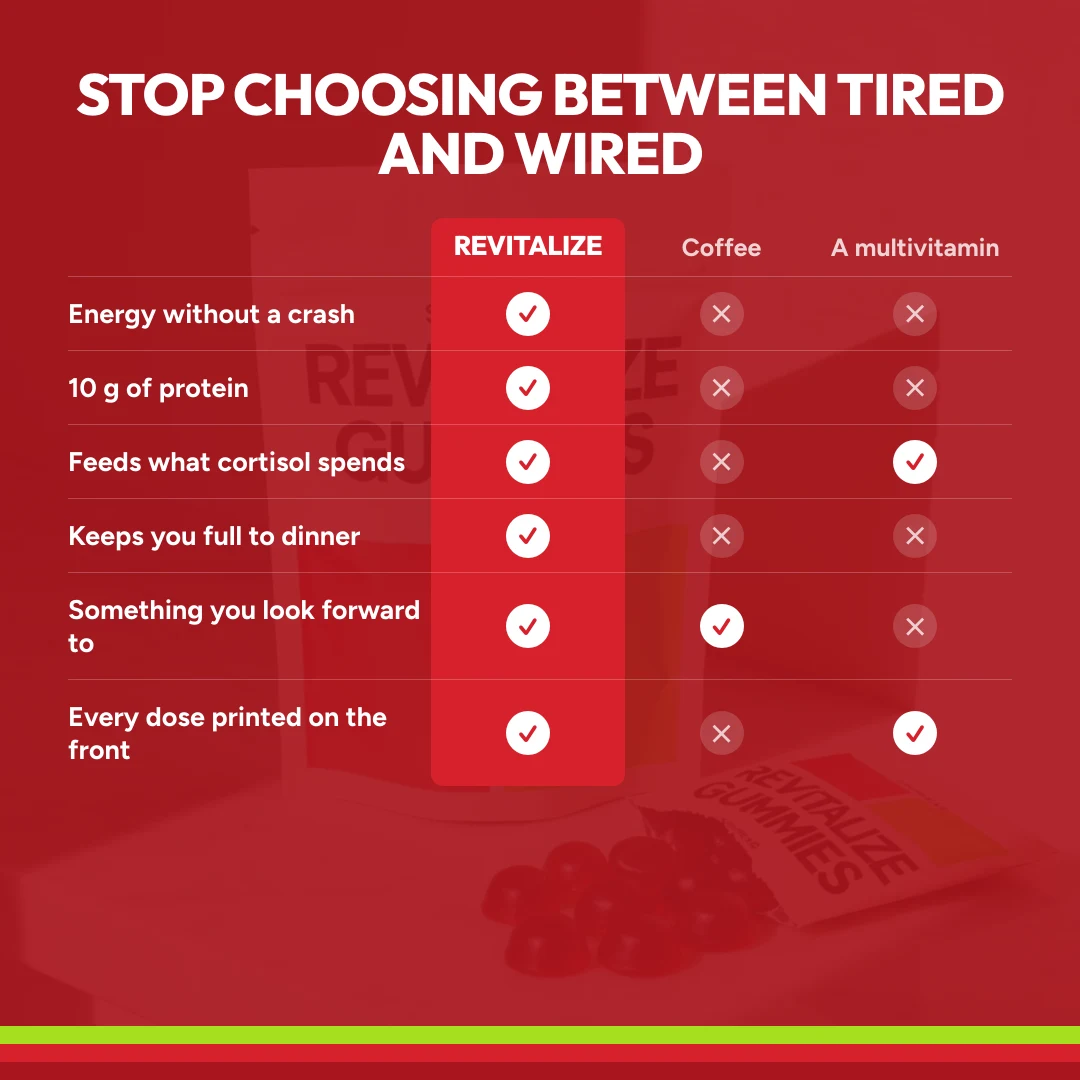
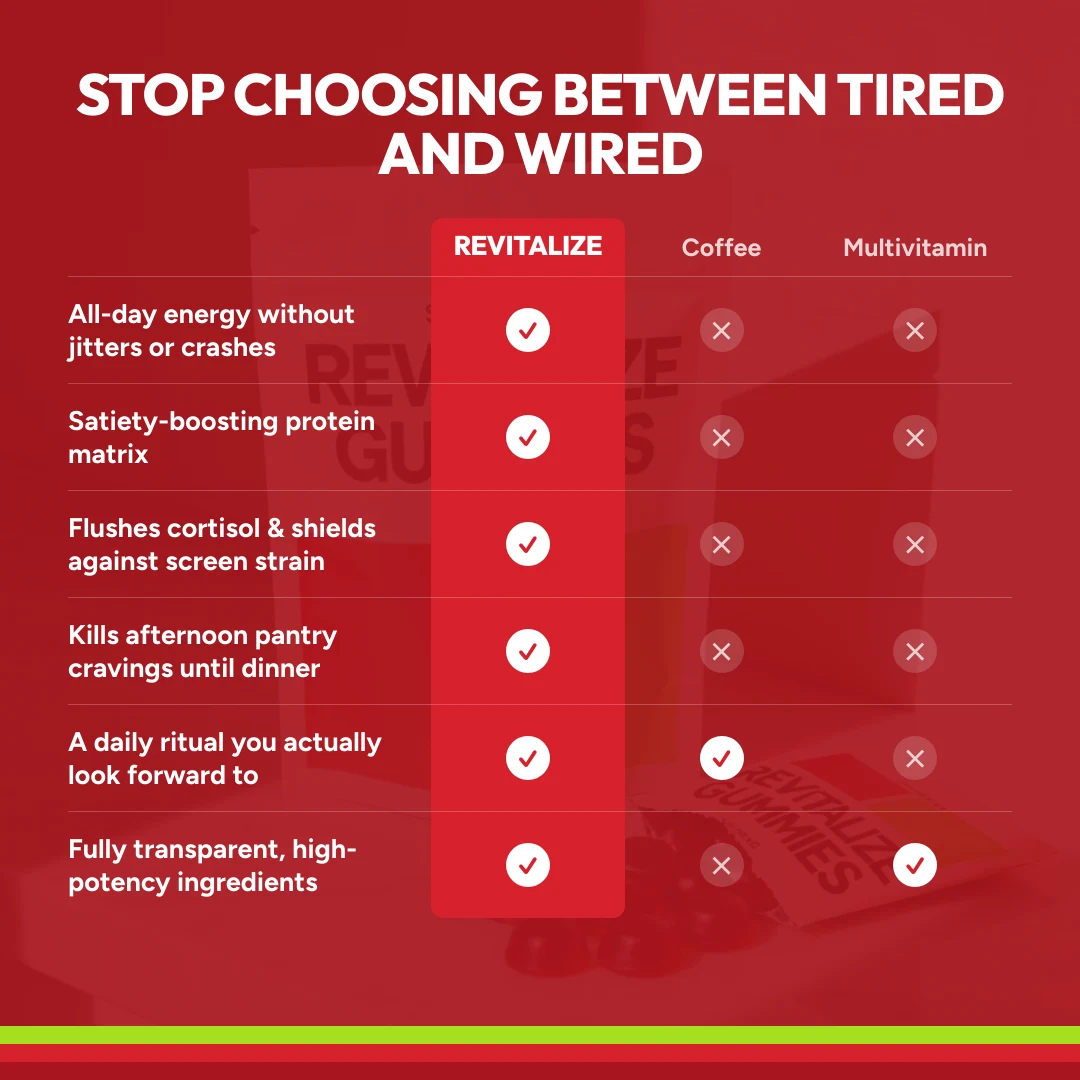
Supplied guarantee badge, new comparison and FAQ slides
Slide 8 drops the drawn badge for the supplied artwork. The source is a JPG
on white, which put a white box on the red band, so the white is knocked out
to alpha first: a flood fill from the border rather than a threshold, so
white inside the badge itself survives.

Comparison slide rebuilt on the new rows and against Coffee and
Multivitamin. FAQ slide rebuilt on the four new answers. Both alts rewritten
to match.

Removes the cadence line above the button, which the terms line under it
already carries, and the rating row from the offer card. The rating stays
at the top of the page where it belongs.

diff --git a/lib/products/revitalize-carousel.ts b/lib/products/revitalize-carousel.ts
@@ -96,14 +96,14 @@ export const SLIDES = {
     title: "Stop choosing between tired and wired",
     photo: "/product/revitalize/marble.webp",
     us: "Revitalize",
-    them: ["Coffee", "A multivitamin"],
+    them: ["Coffee", "Multivitamin"],
     rows: [
-      { label: "Energy without a crash", us: true, a: false, b: false },
-      { label: "10 g of protein", us: true, a: false, b: false },
-      { label: "Feeds what cortisol spends", us: true, a: false, b: true },
-      { label: "Keeps you full to dinner", us: true, a: false, b: false },
-      { label: "Something you look forward to", us: true, a: true, b: false },
-      { label: "Every dose printed on the front", us: true, a: false, b: true },
+      { label: "All-day energy without jitters or crashes", us: true, a: false, b: false },
+      { label: "Satiety-boosting protein matrix", us: true, a: false, b: false },
+      { label: "Flushes cortisol & shields against screen strain", us: true, a: false, b: false },
+      { label: "Kills afternoon pantry cravings until dinner", us: true, a: false, b: false },
+      { label: "A daily ritual you actually look forward to", us: true, a: true, b: false },
+      { label: "Fully transparent, high-potency ingredients", us: true, a: false, b: true },
     ],
   },
 
@@ -113,10 +113,14 @@ export const SLIDES = {
     title: "Frequently asked questions",
     photo: "/product/revitalize/hand.webp",
     items: [
-      { q: "What is Revitalize?", a: "Four cherry lime gummies a day for what a desk job takes out of you." },
-      { q: "How does it work?", a: "Making cortisol burns through vitamin C and pantothenic acid all day. This puts them back, adds 10 g of protein so 3pm is not a raid on the snack drawer, and carries the B vitamins your energy metabolism runs on." },
-      { q: "Is there caffeine in it?", a: "None. Nothing in the pack raises your heart rate, so there is nothing to crash from." },
-      { q: "How long until I notice?", a: "The afternoon changes first, usually inside a week. Skin and hair run on a three to six month clock and nobody can shortcut that." },
+      { q: "What is Revitalize?",
+        a: "A daily morning chew designed to protect desk workers from screen-induced aging, cortisol stress, and afternoon fatigue." },
+      { q: "How does it work?",
+        a: "High-stress workweeks rapidly drain your body\u2019s key nutrients. Revitalize replenishes what stress burns through, delivers satiety-boosting gelatin to kill 3:30 PM cravings, and filters screen strain to keep your skin and eyes protected." },
+      { q: "Is there caffeine in it?",
+        a: "Zero. There are no synthetic stimulants or jittery herbs, just clean bioenergetic nutrients that lift afternoon brain fog without a heart-racing crash later." },
+      { q: "How fast will I see results?",
+        a: "You\u2019ll notice fewer cravings, smoother energy, and better sleep in Week 1. Visible physical benefits like reduced morning puffiness and smoother skin build continuously through Months 1 to 3." },
     ],
   },
 
@@ -137,6 +141,7 @@ export const SLIDES = {
   guarantee: {
     file: "08-guarantee",
     photo: "/product/revitalize/studio.webp",
+    badge: "/photos/revitalize/effects/guarantee.webp",
     title: "60 day money back",
     body: "Try Revitalize for 60 days. If the afternoon does not change, email us and we refund the whole order. Keep the pouch.",
   },

diff --git a/lib/products/revitalize.ts b/lib/products/revitalize.ts
@@ -112,8 +112,8 @@ export const GALLERY = [
   { src: "/product/revitalize/carousel/02-outcome.webp", alt: "What a day with Revitalize looks like: no 3:30 PM pantry raids, no afternoon brain fog, no morning puffy face, no dark circles under your eyes, no tight neck or jaw tension, no screen-strained eyes by 5 PM, no premature fine lines, no second cup of afternoon coffee, no feeling too drained to enjoy your evenings" },
   { src: "/product/revitalize/carousel/03-inside.webp", alt: "The supplement facts panel with each ingredient and its job: vitamin C to build collagen, 10 g gelatin for protein, magnesium glycinate to calm tension, B5 for the stress response, D3 for the indoor day, B1 and B3 for energy and skin, glucomannan to slow the stomach, lutein and zeaxanthin for the screen, allulose for sweetness with no added sugar" },
   { src: "/product/revitalize/carousel/04-timeline.webp", alt: "What happens when you take Revitalize. Week one: afternoon cravings vanish, the 3 PM energy crash disappears, sleep feels deeper. Month one: face looks less puffy, cortisol belly starts shrinking, skin stays calm under deadline stress. Month three: fine lines and screen strain fade, steady focus is your new baseline, you look and feel rested even on 60-hour weeks" },
-  { src: "/product/revitalize/carousel/05-compare.webp", alt: "Revitalize compared with coffee and a multivitamin across energy without a crash, 10 g of protein, feeding what cortisol spends, staying full to dinner, being something you look forward to, and every dose printed on the front" },
-  { src: "/product/revitalize/carousel/06-faq.webp", alt: "Frequently asked questions: what Revitalize is, how it works, whether there is caffeine in it, and how long until you notice" },
+  { src: "/product/revitalize/carousel/05-compare.webp", alt: "Revitalize compared with coffee and a multivitamin on all-day energy without jitters or crashes, a satiety-boosting protein matrix, flushing cortisol and shielding against screen strain, killing afternoon pantry cravings, being a daily ritual you look forward to, and fully transparent high-potency ingredients" },
+  { src: "/product/revitalize/carousel/06-faq.webp", alt: "Frequently asked questions: what Revitalize is, how it works, whether there is caffeine in it, and how fast you will see results" },
   { src: "/product/revitalize/carousel/07-honesty.webp", alt: "We print the weak claims too: every claim on the product page carries an evidence grade and six carry a caveat we wrote ourselves" },
   { src: "/product/revitalize/carousel/08-guarantee.webp", alt: "60 day money back. Try Revitalize for 60 days, and if the afternoon does not change we refund the whole order" },
 ] as const;

diff --git a/lib/content/revitalize-ten.ts b/lib/content/revitalize-ten.ts
@@ -55,7 +55,7 @@ export type Reason = { n: number; title: string; body: string; photo: string; al
 export const REASONS: Reason[] = [
   { n: 1, title: "It shrinks stubborn \u201cCortisol Belly\u201d",
     body: "High stress triggers your body to store visceral fat around your midsection. Revitalize uses Niacinamide and Magnesium Glycinate to mute the stress response at the cellular level, signaling your body to stop hoarding emergency fat and finally let go of lower-belly weight.",
-    photo: "/photos/revitalize/effects/middle.webp", fit: "contain", alt: "A woman in a black sports bra and leggings pinching a roll of belly fat above the waistband" },
+    photo: "/photos/revitalize/effects/middle.webp", fit: "contain", alt: "A before and after illustration of a midsection, with a diagram of fat under the skin reducing" },
   { n: 2, title: "It flushes away \u201cCortisol Face\u201d",
     body: "Unmanaged cortisol disrupts fluid balance, leaving you swollen and heavy-looking. The Magnesium Glycinate in Revitalize helps restore fluid regulation and relax micro-vessels, flushing out morning retention so you wake up with a defined face.",
     photo: "/photos/revitalize/effects/puffy.webp", fit: "contain", alt: "Two women photographed side by side, one with a fuller puffier face and one with a more defined face" },

diff --git a/components/advertorial/RevitalizeTenPage.tsx b/components/advertorial/RevitalizeTenPage.tsx
@@ -167,10 +167,6 @@ export function RevitalizeTenPage() {
               </div>
             </div>
             <div className={styles.offerCard}>
-              <p className={styles.ratingLine} style={{ textAlign: "left", marginBottom: "0.75rem" }}>
-                <Stars size={15} />
-                {OFFER.customers}
-              </p>
               <h2 className={styles.offerTitle}>{OFFER.title}</h2>
 
               <div className={styles.priceRow}>
@@ -194,7 +190,6 @@ export function RevitalizeTenPage() {
               </ul>
 
               <p className={styles.servings}>{OFFER.servings}</p>
-              <p className={styles.cadence}>{chosen.sub}. Pause, skip, or cancel anytime.</p>
 
 
               <Button fullWidth variant="accent" size="lg" onClick={buy}>{OFFER.cta}</Button>
